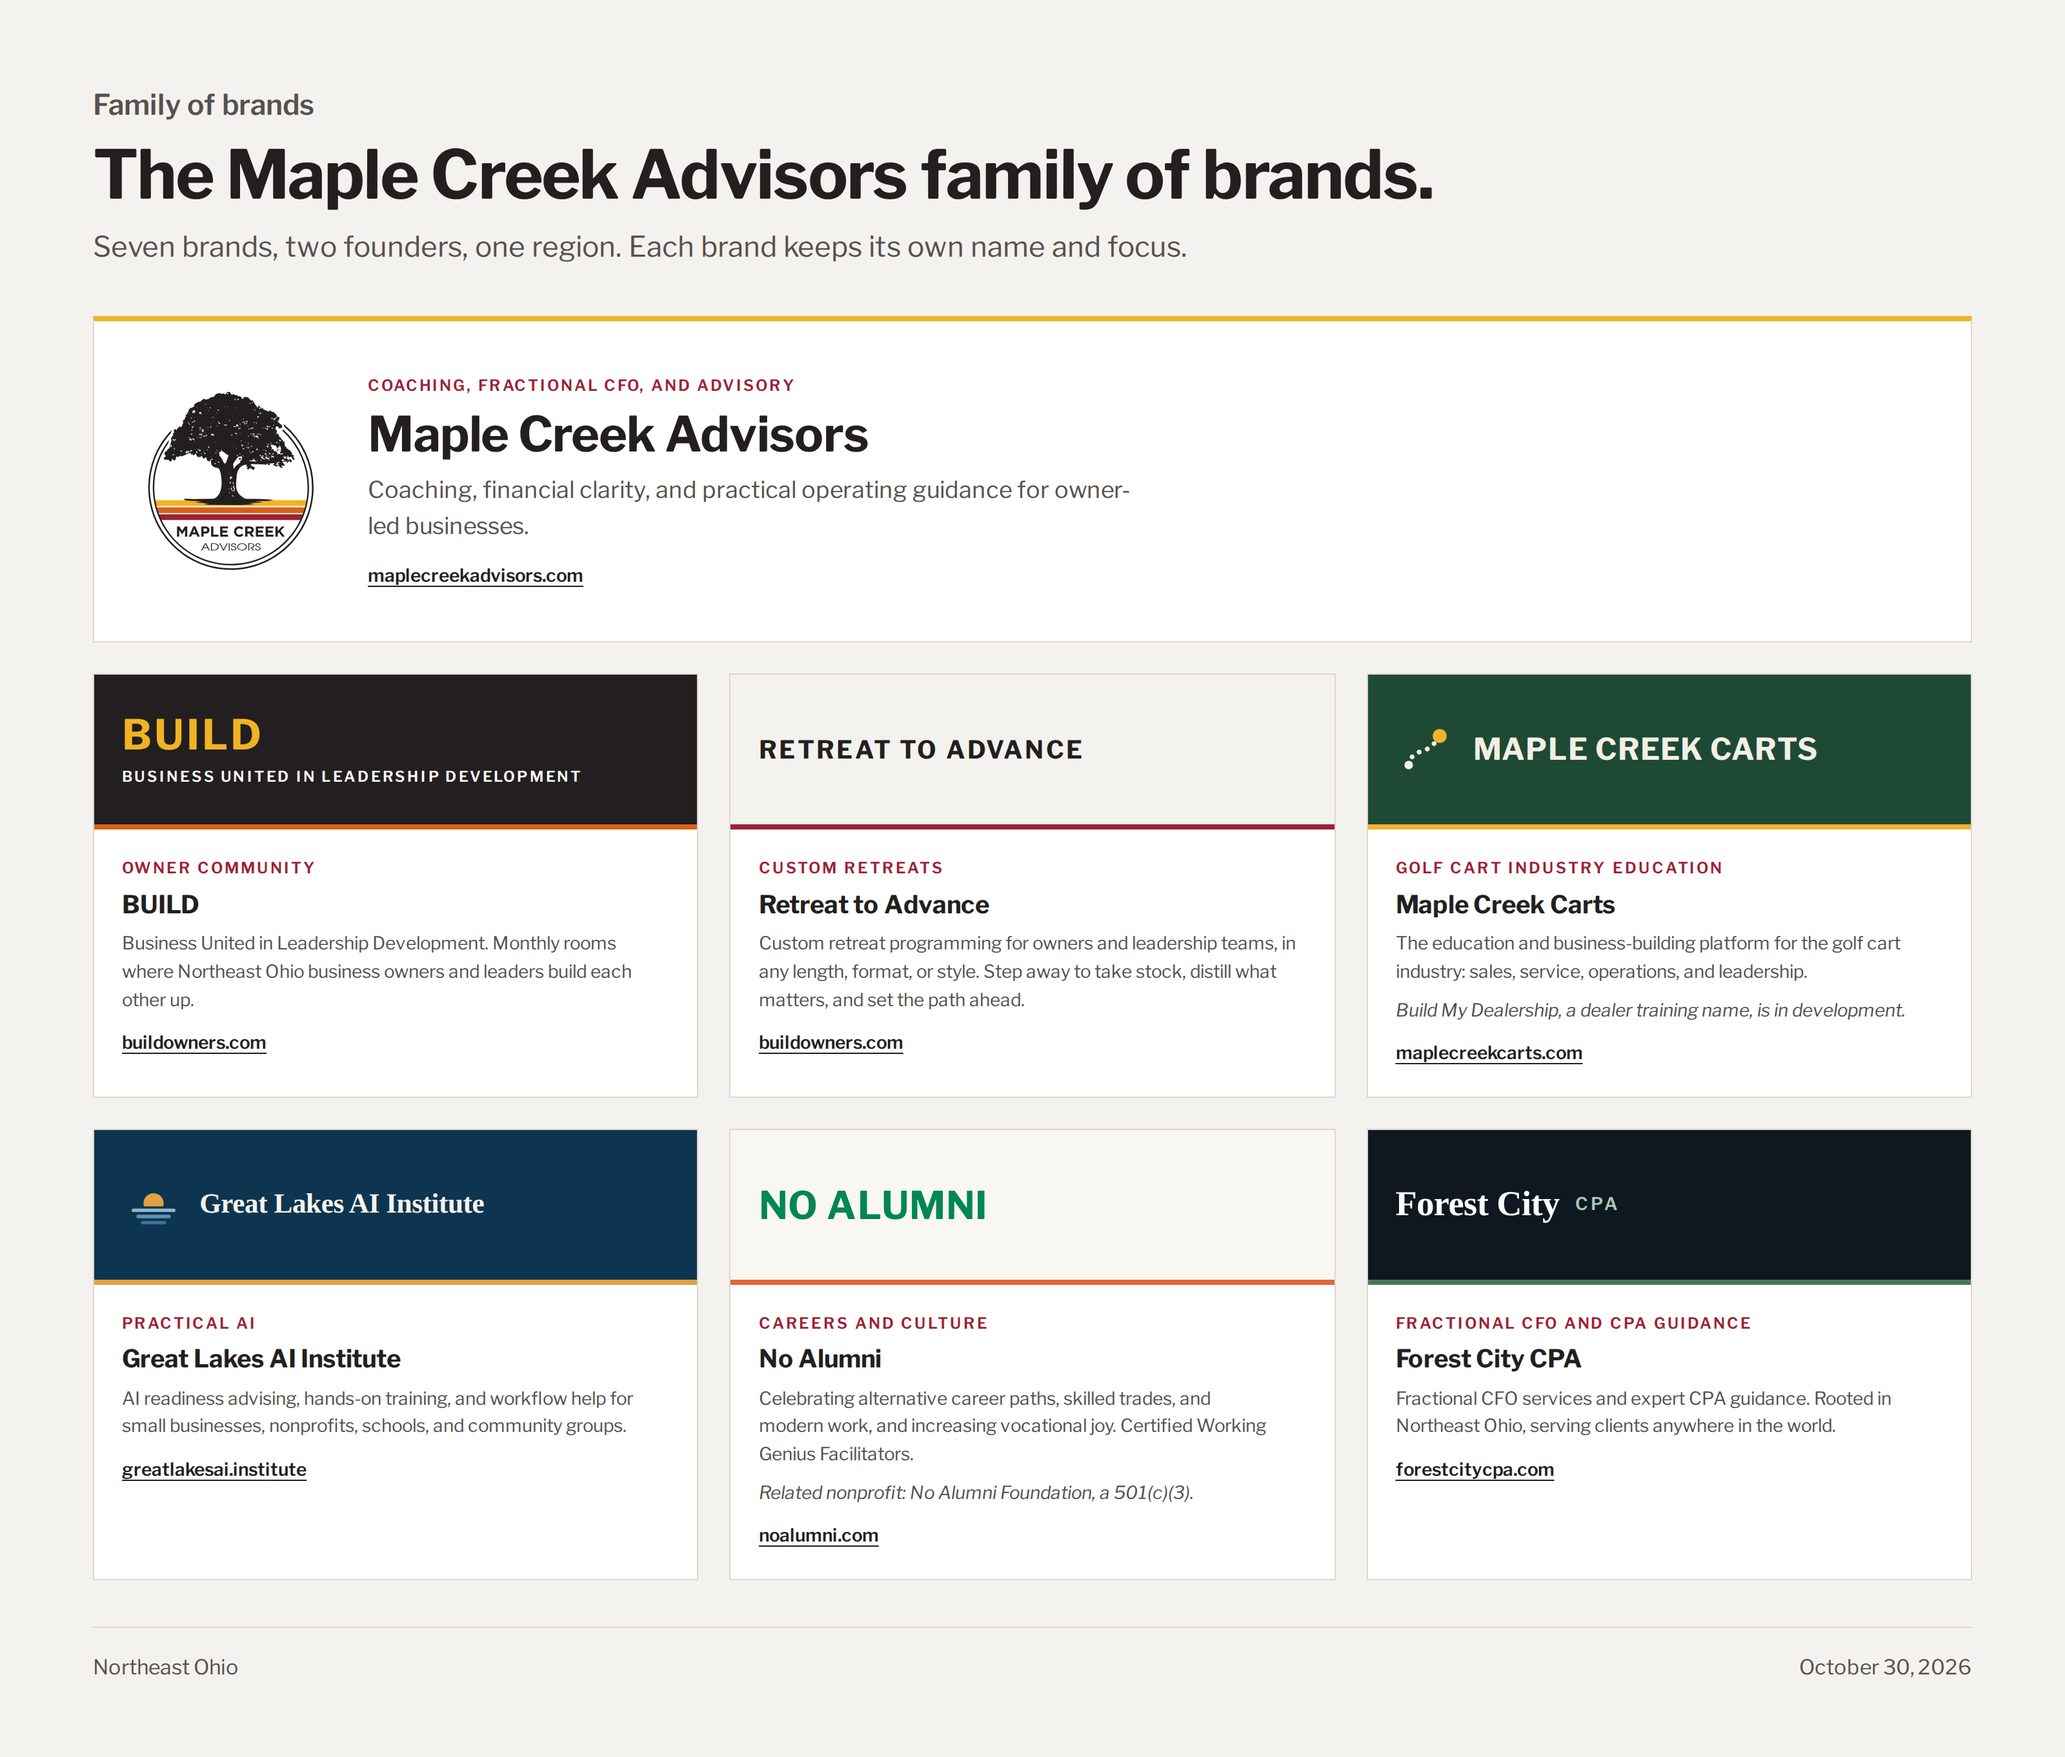
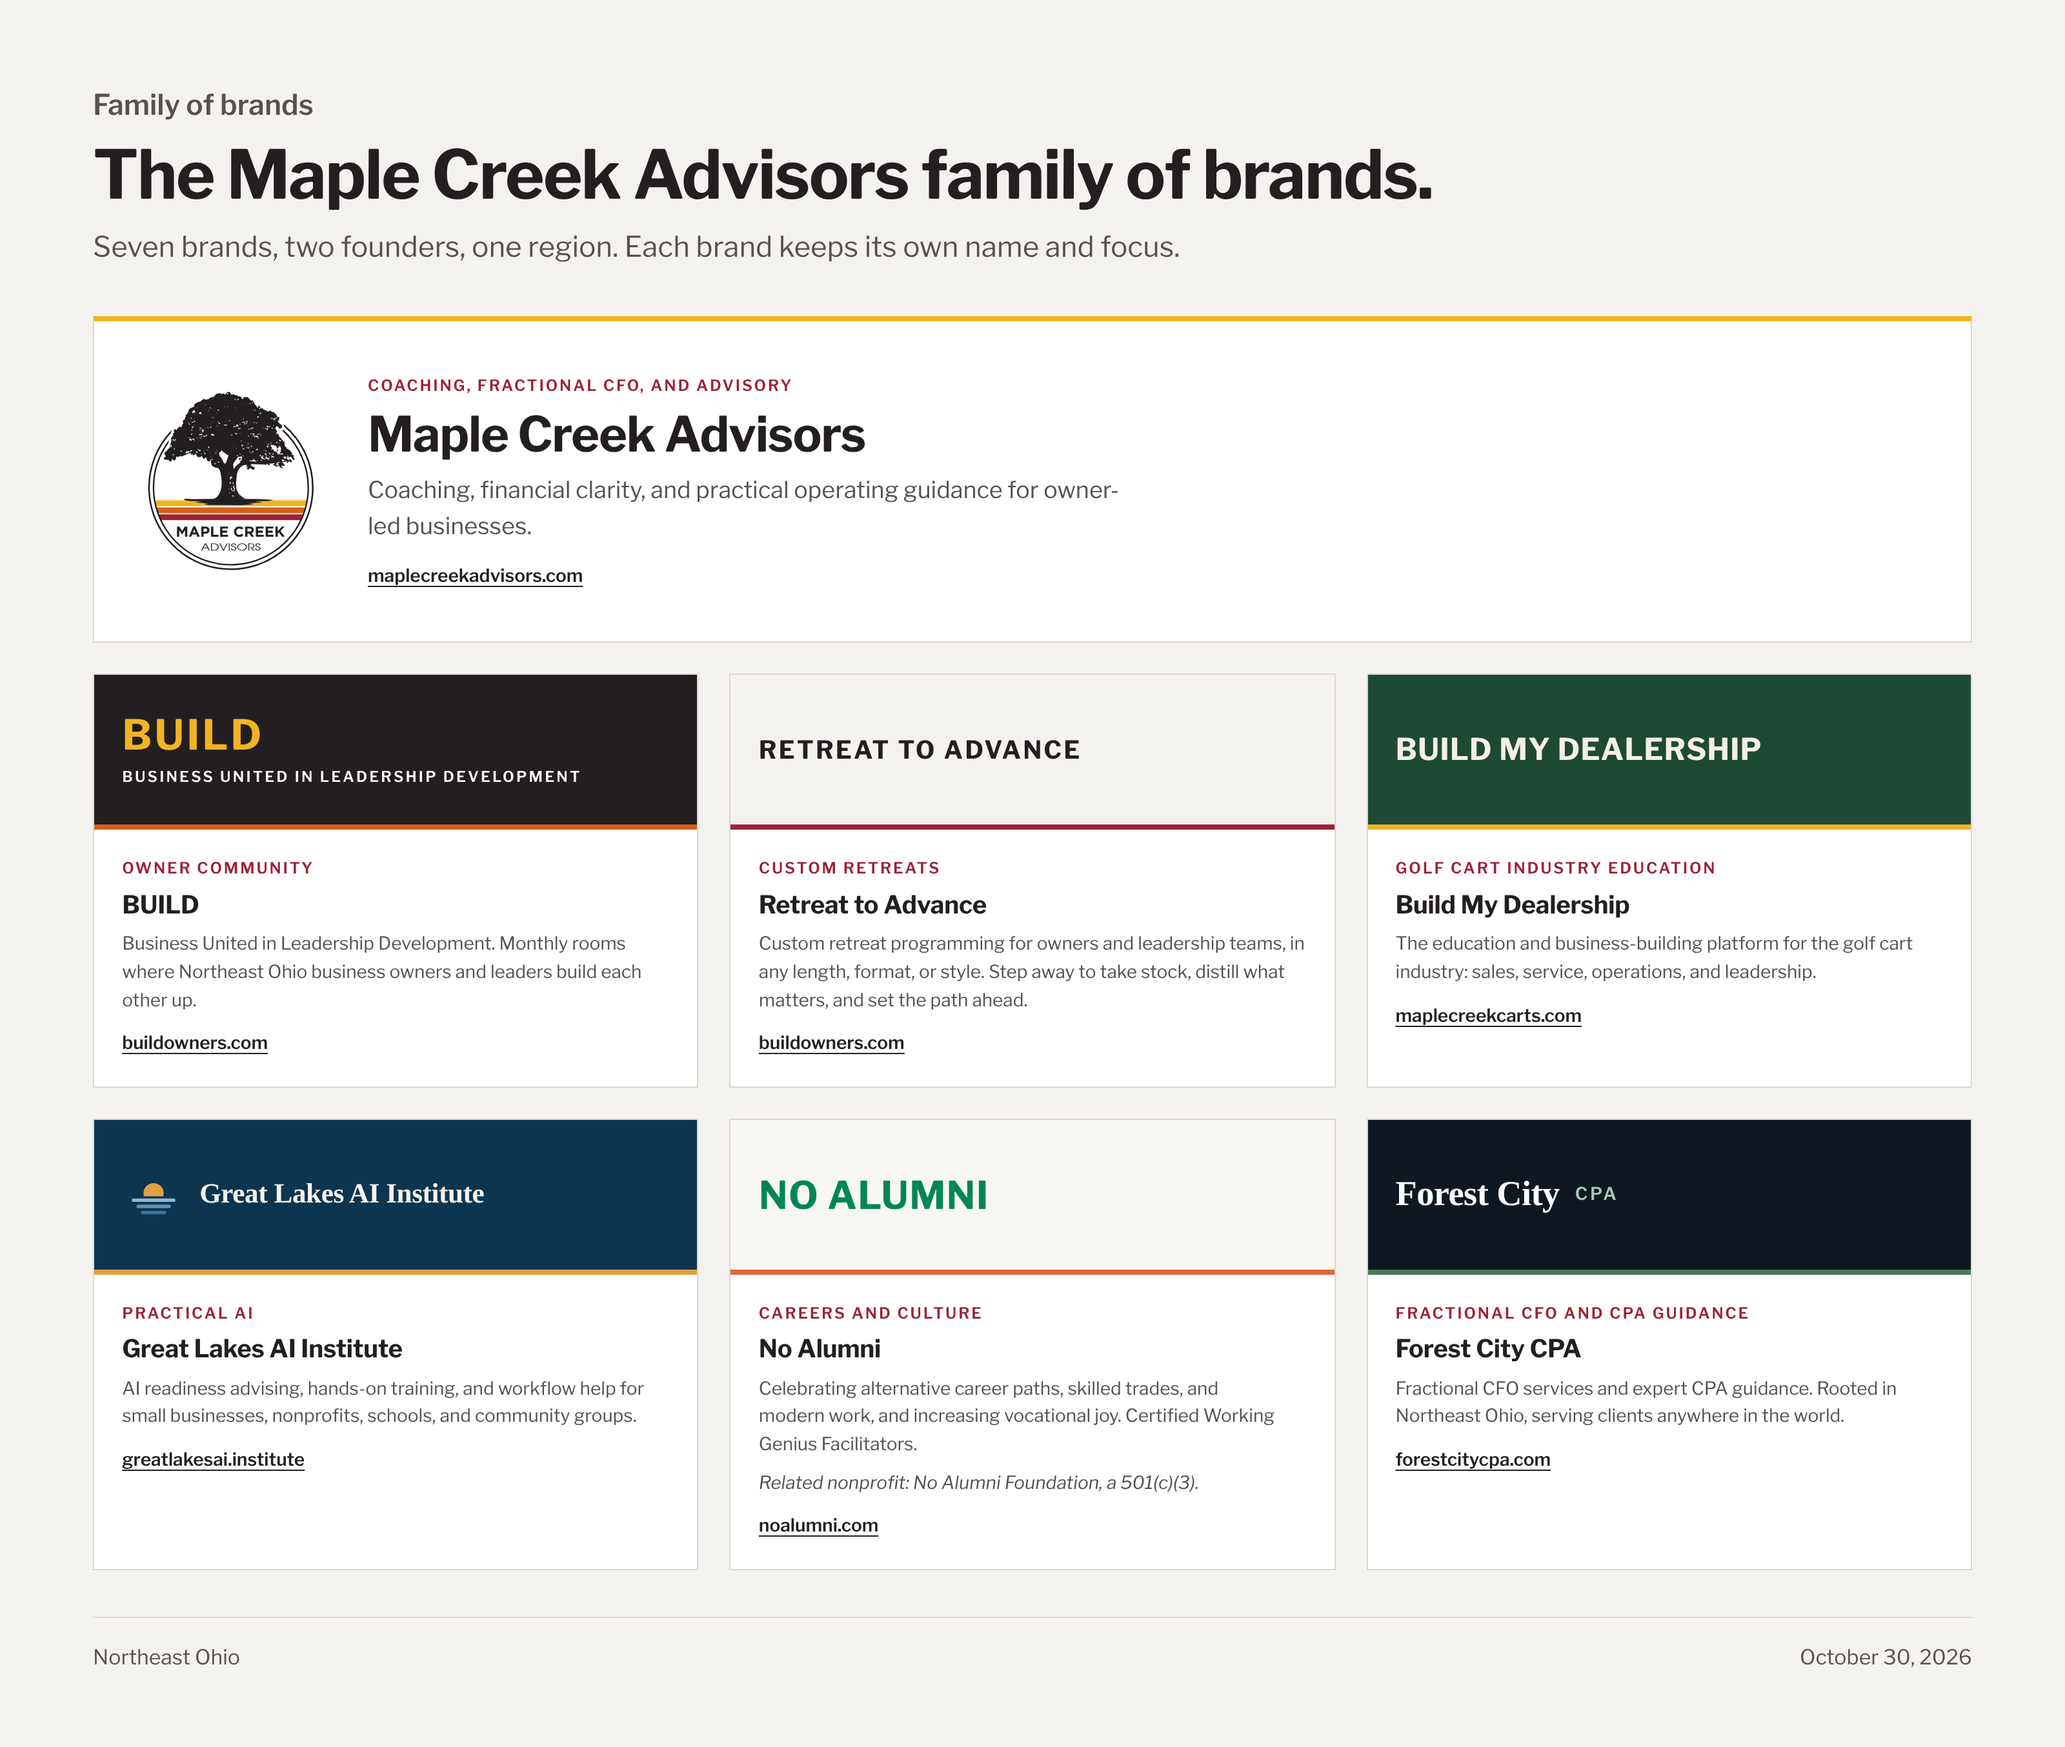
Show founder emails on founder sections; rename Maple Creek Carts to Build My Dealership
Claude-Session: https://claude.ai/code/session_01T83r77Z5JHMrRA2ym1GXY8

diff --git a/DECISIONS.md b/DECISIONS.md
@@ -70,3 +70,5 @@ Choices made in the first build, with the reason for each. Founders can reverse 
 | 2026-10-30 | Retreat to Advance card on /brands/ now describes custom retreat programming for owners and leadership teams in any length, format, or style, replacing the two-day annual description. | Matt's direction. The BUILD page's annual retreat description is unchanged. |
 | 2026-10-30 | BUILD page Retreat to Advance paragraph now matches the /brands/ card: custom retreat programming for owners and leadership teams in any length, format, or style, replacing "once a year, BUILD steps away for two days." | Matt's direction. The link to the BUILD website stays; buildowners.com may still describe the two-day format. |
 | 2026-10-30 | Retreat to Advance links now go to https://buildowners.com/#retreat-to-advance (`build.retreatUrl`), the description in the BUILD ecosystem section, instead of the buildowners.com home page. The /brands/ card, which had no link, now links there too, labeled buildowners.com. | Matt's direction. buildowners.com now carries the approved custom retreat description at that anchor. |
+| 2026-10-30 | Founder emails (josh@ and matt@maplecreekadvisors.com) now also show under each founder on the announcement page and the church, golf cart, and sell-your-business pages, matching About. hello@maplecreekadvisors.com stays the general contact address. | Matt's direction to use the founders' new addresses wherever relevant. No old maplecreekcoaching.com or forestcity.pro addresses remained in the built site. |
+| 2026-10-30 | "Maple Creek Carts" renamed to "Build My Dealership" everywhere it appeared (/carts/ copy and /brands/ card). The /brands/ card uses a wordmark; the old Carts mark was removed. Links still point to maplecreekcarts.com, the only live site for it. | Matt's direction. Update CARTS_URL in src/carts-content.mjs and the /brands/ card url when a Build My Dealership domain is live. |
